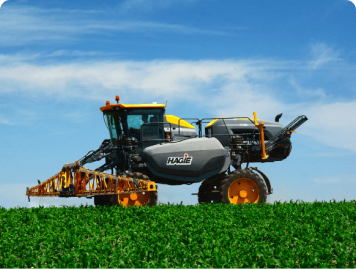
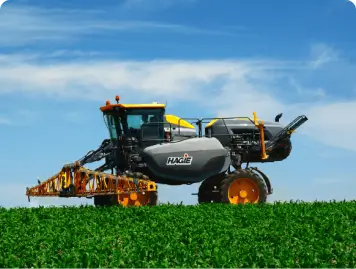
Optimize images

diff --git a/index.html b/index.html
@@ -177,19 +177,19 @@
     <div class="container">
       <h2 class="deadlines__heading">Когда будут результаты</h2>
       <ul class="deadlines__list">
-        <li class="deadlines__item" style="background-image: url(./img/deadlines-img-1.png);">
+        <li class="deadlines__item" style="background-image: url(./img/deadlines-img-1.webp);">
           <span class="deadlines__item-heading">1-2 месяц</span>
           <p class="deadlines__item-text">Обновление сайта в поисковых системах в соответствии с проведенной внутренней SEO-оптимизацией сайта. Рост поискового трафика.</p>
         </li>
-        <li class="deadlines__item" style="background-image: url(./img/deadlines-img-2.png);">
+        <li class="deadlines__item" style="background-image: url(./img/deadlines-img-2.webp);">
           <span class="deadlines__item-heading">3-4 месяц</span>
           <p class="deadlines__item-text">Попадание до 20% запросов в ТОП-10 поисковых систем. Рост поискового трафика.</p>
         </li>
-        <li class="deadlines__item" style="background-image: url(./img/deadlines-img-3.png);">
+        <li class="deadlines__item" style="background-image: url(./img/deadlines-img-3.webp);">
           <span class="deadlines__item-heading">5-6 месяц</span>
           <p class="deadlines__item-text">Попадание до 50% запросов в топ-10 поисковых систем. Рост поискового трафика. Рост заявок.</p>
         </li>
-        <li class="deadlines__item" style="background-image: url(./img/deadlines-img-4.png);">
+        <li class="deadlines__item" style="background-image: url(./img/deadlines-img-4.webp);">
           <span class="deadlines__item-heading">7-8 месяц</span>
           <p class="deadlines__item-text">Попадание до 70% запросов в топ-10 поисковых систем. Рост поискового трафика. Стабильный поток заявок.</p>
         </li>
@@ -712,7 +712,7 @@
 
   <section class="request">
     <div class="container request__container">
-      <div class="request__img" style="background-image: url(./img/request-img.jpg);"></div>
+      <div class="request__img" style="background-image: url(./img/request-img.webp);"></div>
       <form action="" method="post" class="request__form">
         <h2 class="request__heading">Сайт в <span class="request__top-word">ТОПе</span><br> или возврат денег</h2>
         <p class="request__note">Оставьте заявку, после чего мы сможем собрать ключевые запросы, проверить позиции по ним, составить план продвижения и сделать вам предложение по оптимизации сайта.</p>
